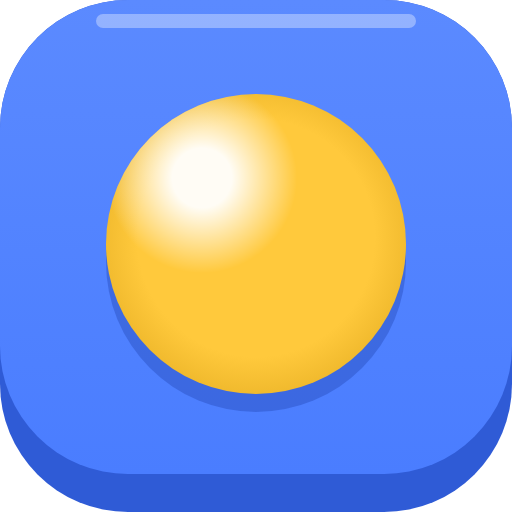
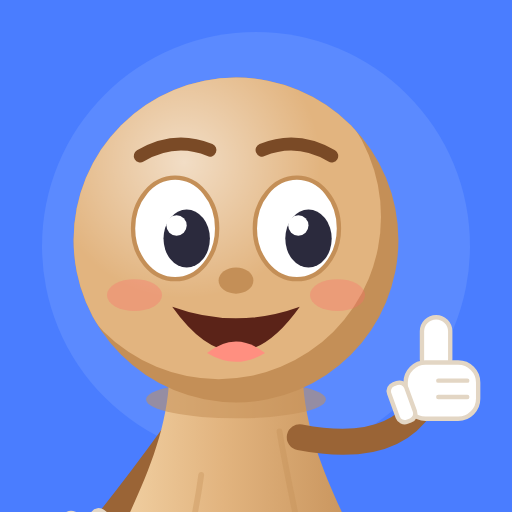
Nouvelle icône de l'app : Toc en gros plan
Remplace le carré bleu à boule jaune (jugé « horrible » par Mallory).
- scripts/icones.ts régénère public/ depuis le dessin de Toc : icon-192/512,
  icon-maskable-512 (Toc réduit pour tenir dans le cercle des icônes Android),
  apple-touch-icon (180, opaque) et favicon.svg (la tête seule, sans bras).
- mascotSvg : option arms: false.

Claude-Session: https://claude.ai/code/session_01Mg6ARviy7ixgkiRbRcLFQD

diff --git a/scripts/icones.ts b/scripts/icones.ts
@@ -1,0 +1,38 @@
+// Icônes de l'app d'après Toc, la mascotte : npx tsx scripts/icones.ts
+// Écrit dans public/ : icon-192.png, icon-512.png, icon-maskable-512.png (Toc dans le cercle visible
+// des icônes Android découpées), apple-touch-icon.png (180, sans transparence) et favicon.svg (la tête seule).
+import { writeFileSync } from 'node:fs';
+import { chromium } from '@playwright/test';
+import { mascotSvg } from '../src/ui/mascot.ts';
+
+const BLUE = '#4a7dff', HALO = '#5b8aff';
+const strip = (svg: string) => svg.replace(/^<svg[^>]*>/, '').replace(/<\/svg>\s*$/, '');
+const inner = strip(mascotSvg('content', { ground: false }));
+/** Toc agrandi `scale` fois, la tête centrée en (x, y), sur le fond bleu de l'app. */
+const icon = (scale: number, x: number, y: number, rx = 0, body = inner) => `<svg xmlns="http://www.w3.org/2000/svg" viewBox="0 0 512 512">
+<rect width="512" height="512" rx="${rx}" fill="${BLUE}"/>
+<circle cx="256" cy="246" r="214" fill="${HALO}"/>
+<g transform="translate(${x - 256 * scale} ${y - 168 * scale}) scale(${scale})">${body}</g>
+</svg>`;
+
+const files: [string, string, number][] = [
+  ['icon-512.png', icon(1.45, 236, 240), 512],
+  ['icon-192.png', icon(1.45, 236, 240), 192],
+  // Découpe en cercle (Android) : tout l'essentiel tient dans 80 % du carré.
+  ['icon-maskable-512.png', icon(1.15, 246, 236), 512],
+  ['apple-touch-icon.png', icon(1.45, 236, 240), 180],
+];
+
+const browser = await chromium.launch();
+const page = await browser.newPage();
+for (const [name, svg, size] of files) {
+  await page.setViewportSize({ width: size, height: size });
+  await page.setContent(`<html><body style="margin:0">${svg.replace('<svg ', `<svg width="${size}" height="${size}" `)}</body></html>`);
+  await page.screenshot({ path: `public/${name}`, omitBackground: false });
+  console.log('écrit public/' + name);
+}
+await browser.close();
+
+// Favicon : la tête seule, sur une tuile bleue arrondie (lisible à 16 px dans un onglet).
+writeFileSync('public/favicon.svg', icon(1.9, 256, 270, 112, strip(mascotSvg('content', { ground: false, arms: false }))));
+console.log('écrit public/favicon.svg');

diff --git a/src/ui/mascot.ts b/src/ui/mascot.ts
@@ -85,11 +85,11 @@ function arms(mood: MascotMood): { back: string; front: string } {
 const crown = `<path d="M206 78 L214 36 L238 60 L256 26 L274 60 L298 36 L306 78 Z" fill="#ffc93c" stroke="#d9a116" stroke-width="5" stroke-linejoin="round"/>`
   + `<circle cx="256" cy="58" r="7" fill="#ff6b4a"/>`;
 
-/** Le dessin SVG de Toc. `ground` : son ombre au sol (pas dans l'icône, où il est coupé). */
-export function mascotSvg(mood: MascotMood = 'content', o: { viewBox?: string; ground?: boolean } = {}): string {
+/** Le dessin SVG de Toc. `ground` : son ombre au sol (pas dans l'icône, où il est coupé) ; `arms` : sans bras (favicon). */
+export function mascotSvg(mood: MascotMood = 'content', o: { viewBox?: string; ground?: boolean; arms?: boolean } = {}): string {
   const k = ++seq;
   const head = `hd${k}`, body = `bd${k}`, gloss = `gl${k}`;
-  const { back, front } = arms(mood);
+  const { back, front } = o.arms === false ? { back: '', front: '' } : arms(mood);
   return `<svg xmlns="http://www.w3.org/2000/svg" viewBox="${o.viewBox ?? '0 0 512 512'}" aria-hidden="true">
 <defs>
 <clipPath id="${head}"><circle cx="256" cy="168" r="112"/></clipPath>
